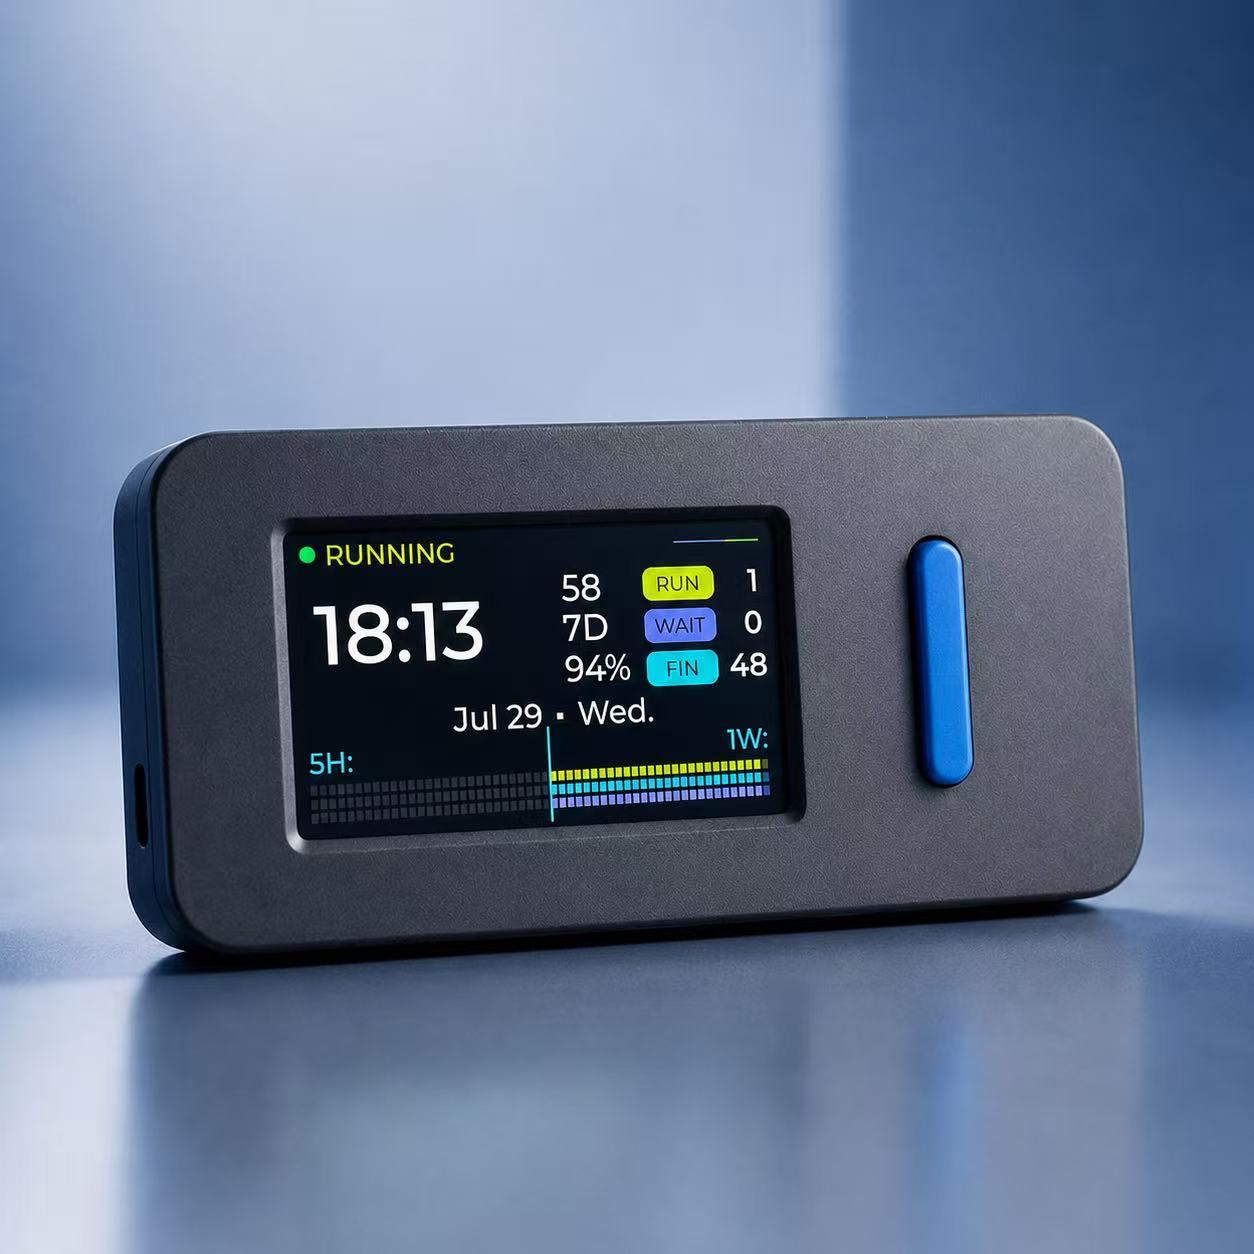
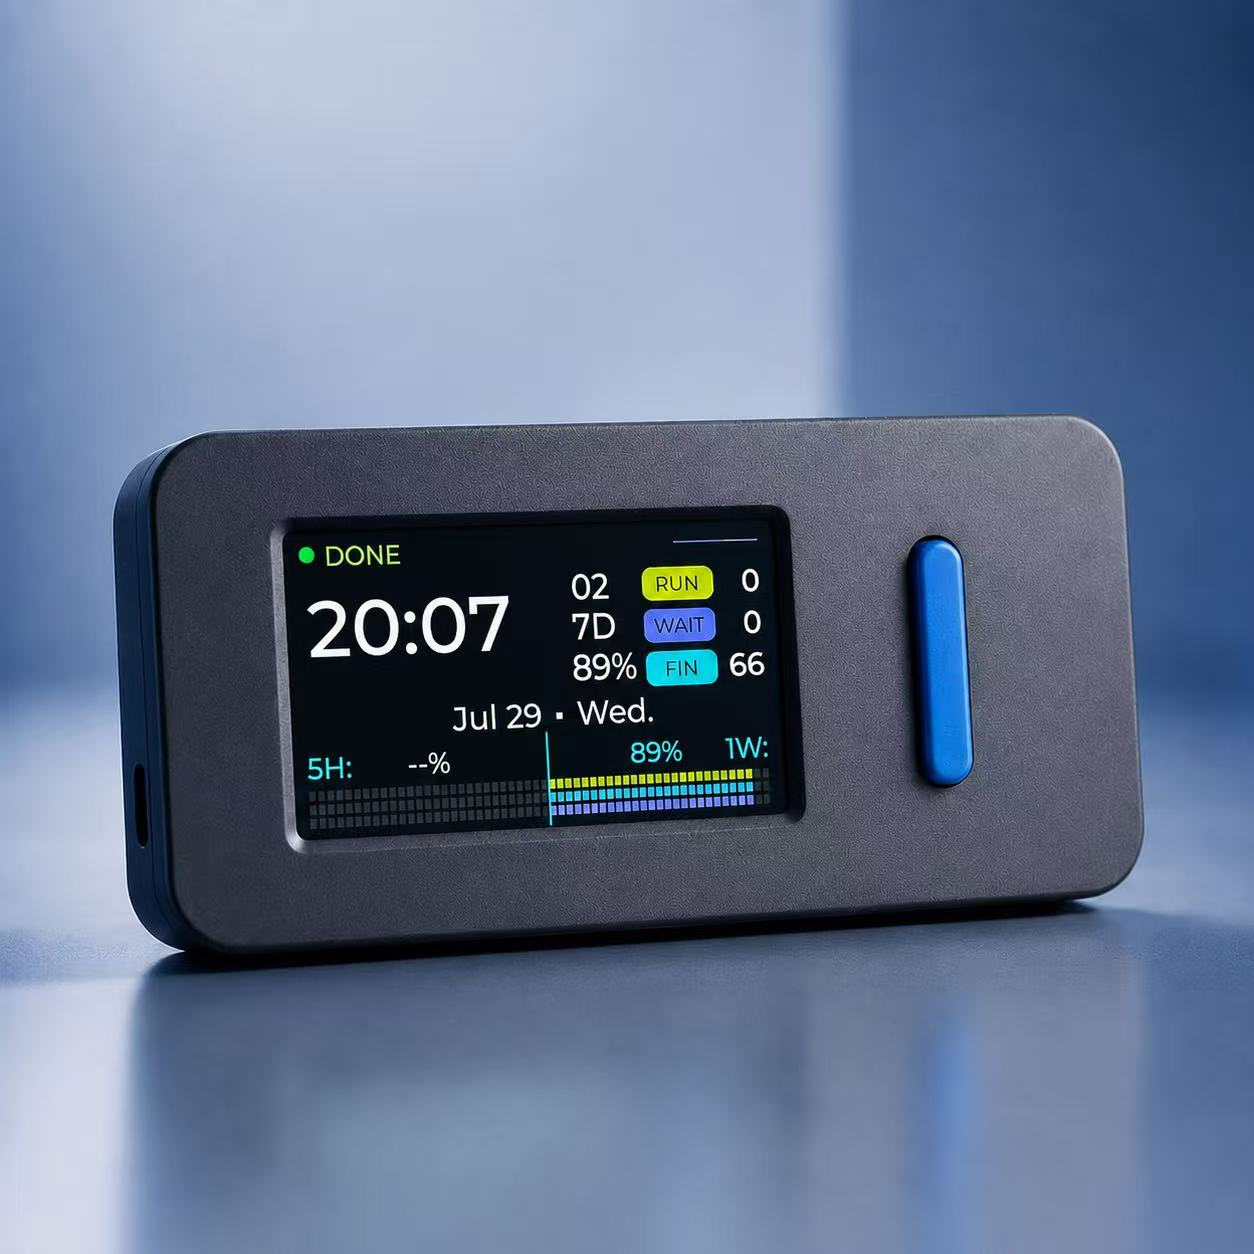
Add portrait quota cards and refresh renders

diff --git a/firmware/sticks3/src/main.c b/firmware/sticks3/src/main.c
@@ -187,6 +187,7 @@ static lv_obj_t *s_provider_label;
 static lv_obj_t *s_status_dot;
 static lv_obj_t *s_status_label;
 static lv_obj_t *s_funds_value_label;
+static lv_obj_t *s_five_hour_funds_value_label;
 static lv_obj_t *s_today_value_label;
 static lv_obj_t *s_token_value_label;
 static lv_obj_t *s_recording_overlay;
@@ -661,18 +662,18 @@ static lv_obj_t *make_fullscreen_overlay(lv_obj_t *parent)
 static lv_obj_t *make_metric_card(lv_obj_t *screen, int32_t y, const char *title,
                                   lv_color_t value_color, lv_obj_t **value_label)
 {
-    lv_obj_t *card = make_plain_obj(screen, LCD_H_RES - 16, 40,
+    lv_obj_t *card = make_plain_obj(screen, LCD_H_RES - 16, 32,
                                     lv_color_hex(0x101216), LV_OPA_COVER, 7);
     lv_obj_set_style_border_width(card, 1, 0);
     lv_obj_set_style_border_color(card, lv_color_hex(0x30343c), 0);
     lv_obj_align(card, LV_ALIGN_TOP_MID, 0, y);
 
-    lv_obj_t *title_label = make_label(card, title, &lv_font_montserrat_12,
-                                       lv_color_hex(0xa5aab3), 58, LV_TEXT_ALIGN_LEFT);
-    lv_obj_align(title_label, LV_ALIGN_LEFT_MID, 8, 0);
-    *value_label = make_label(card, "--", &lv_font_montserrat_16,
-                              value_color, 54, LV_TEXT_ALIGN_RIGHT);
-    lv_obj_align(*value_label, LV_ALIGN_RIGHT_MID, -7, 0);
+    lv_obj_t *title_label = make_label(card, title, &lv_font_montserrat_10,
+                                       lv_color_hex(0xa5aab3), 64, LV_TEXT_ALIGN_LEFT);
+    lv_obj_align(title_label, LV_ALIGN_LEFT_MID, 7, 0);
+    *value_label = make_label(card, "--", &lv_font_montserrat_14,
+                              value_color, 44, LV_TEXT_ALIGN_RIGHT);
+    lv_obj_align(*value_label, LV_ALIGN_RIGHT_MID, -6, 0);
     return card;
 }
 
@@ -1086,10 +1087,14 @@ static void create_portrait_ui(lv_obj_t *screen)
     lv_obj_align(s_status_label, LV_ALIGN_TOP_LEFT, 71, 59);
     lv_obj_align_to(s_status_dot, s_status_label, LV_ALIGN_OUT_LEFT_MID, -4, 0);
 
-    make_metric_card(screen, 91, "FUNDS:", lv_color_hex(0x8edb94), &s_funds_value_label);
-    make_metric_card(screen, 137, "TODAY:", lv_color_hex(0x8d94ee), &s_today_value_label);
-    make_metric_card(screen, 183, "TOKEN:", lv_color_hex(0xe7d86f), &s_token_value_label);
-    lv_obj_set_style_text_font(s_token_value_label, &lv_font_montserrat_14, 0);
+    make_metric_card(screen, 82, "1W FUNDS:", lv_color_hex(0x8edb94),
+                     &s_funds_value_label);
+    make_metric_card(screen, 119, "5H FUNDS:", lv_color_hex(0x41c7ff),
+                     &s_five_hour_funds_value_label);
+    make_metric_card(screen, 156, "TODAY:", lv_color_hex(0x8d94ee),
+                     &s_today_value_label);
+    make_metric_card(screen, 193, "TOKEN:", lv_color_hex(0xe7d86f),
+                     &s_token_value_label);
 
     s_recording_overlay = make_fullscreen_overlay(screen);
     lv_obj_add_flag(s_recording_overlay, LV_OBJ_FLAG_HIDDEN);
@@ -1302,10 +1307,10 @@ static void render_state(void)
     lv_obj_set_style_text_color(s_provider_label, lv_color_hex(0xf3f4f6), 0);
     lv_label_set_text(s_status_label, status_text_for(display_state->status));
     set_status_color(provider, status_key);
-    const bool quota_valid = display_state->quota_7d_valid || display_state->quota_5h_valid;
-    const int quota_remaining = display_state->quota_7d_valid
-        ? display_state->quota_7d : display_state->quota_5h;
-    set_percent_label(s_funds_value_label, quota_remaining, quota_valid);
+    set_percent_label(s_funds_value_label, display_state->quota_7d,
+                      display_state->quota_7d_valid);
+    set_percent_label(s_five_hour_funds_value_label, display_state->quota_5h,
+                      display_state->quota_5h_valid);
     set_percent_label(s_today_value_label, display_state->today_used_percent,
                       display_state->today_used_percent_valid);
     set_token_label(s_token_value_label, display_state->today_tokens,

diff --git a/README.md b/README.md
@@ -164,12 +164,12 @@ Wait for `Hash of data verified`.
 ./scripts/doctor.sh
 ```
 
-Aim for all required checks to pass. The StickS3 should show Wi-Fi, time, battery, Codex status, and `FUNDS / TODAY / TOKEN`.
+Aim for all required checks to pass. The StickS3 should show Wi-Fi, time, battery, Codex status, and `1W FUNDS / 5H FUNDS / TODAY / TOKEN`.
 
 11. 👤 Test both buttons:
 
 - Front blue, short press: open/focus Codex; approve when Codex is waiting for confirmation.
-- Front blue, double press: refresh `FUNDS / TODAY / TOKEN`.
+- Front blue, double press: refresh `1W FUNDS / 5H FUNDS / TODAY / TOKEN`.
 - Front blue, hold and release: record, transcribe, and enter into Codex without submitting.
 - Side, short press: approve all waiting Codex tasks across projects; if none are waiting, send the current input.
 - Side, double press: clear the current input text.
@@ -329,7 +329,7 @@ idf.py build
 
 - This is a cleaned prototype, not a packaged Mac app or DMG.
 - The firmware targets M5Stack StickS3 only.
-- `FUNDS` shows Codex quota remaining, `TODAY` shows the corresponding usage consumed, and `TOKEN` shows tokens accumulated during the current seven-day quota cycle. `TOKEN` restarts from zero whenever that quota cycle resets. The landscape `FIN` counter shows tasks completed during the current local day. It resets after local midnight and is restored after StickS3 power cycles or firmware flashes within the same day.
+- `1W FUNDS` and `5H FUNDS` show the remaining weekly and five-hour Codex quotas. `TODAY` shows the corresponding usage consumed, and `TOKEN` shows tokens accumulated during the current seven-day quota cycle. `TOKEN` restarts from zero whenever that quota cycle resets. The landscape `FIN` counter shows tasks completed during the current local day. It resets after local midnight and is restored after StickS3 power cycles or firmware flashes within the same day.
 - ASR reliability depends on microphone capture, uploaded PCM quality, provider availability, and configured model.
 
 ## Contributing & security

diff --git a/README.zh-CN.md b/README.zh-CN.md
@@ -161,12 +161,12 @@ ls /dev/cu.*
 ./scripts/doctor.sh
 ```
 
-尽量让必须项全部 PASS。然后看一眼 StickS3：顶部应显示 Wi-Fi、时间和电量，中间显示 Codex 状态，下面显示 `FUNDS / TODAY / TOKEN`。
+尽量让必须项全部 PASS。然后看一眼 StickS3：顶部应显示 Wi-Fi、时间和电量，中间显示 Codex 状态，下面显示 `1W FUNDS / 5H FUNDS / TODAY / TOKEN`。
 
 11. 👤 测试正面蓝键和侧键：
 
 - 正面蓝键短按：打开 Codex 或把 Codex 窗口带到前台；等待确认时发送允许。
-- 正面蓝键双击：刷新 `FUNDS / TODAY / TOKEN`。
+- 正面蓝键双击：刷新 `1W FUNDS / 5H FUNDS / TODAY / TOKEN`。
 - 正面蓝键长按：录音；松开后转写并填入 Codex，等待手动发送。
 - 侧键短按：跨项目批准全部等待中的 Codex 任务；没有待批准任务时发送当前输入。
 - 侧键双击：清空当前输入框中的文本。
@@ -326,7 +326,7 @@ idf.py build
 
 - 这是整理后的原型，不是打包好的 Mac app 或 DMG。
 - 固件只面向 M5Stack StickS3。
-- `FUNDS` 显示 Codex 当前额度剩余百分比，`TODAY` 显示对应的用量消耗百分比，`TOKEN` 显示当前七天额度周期内累计的 Token；额度周期重置时，`TOKEN` 会从 0 重新计算。横屏界面的 `FIN` 由 Mac bridge 持久保存，StickS3 断电或重新刷机后会自动恢复。
+- `1W FUNDS` 和 `5H FUNDS` 分别显示 Codex 一周额度与 5 小时额度的剩余百分比；`TODAY` 显示对应的用量消耗百分比，`TOKEN` 显示当前七天额度周期内累计的 Token；额度周期重置时，`TOKEN` 会从 0 重新计算。横屏界面的 `FIN` 由 Mac bridge 持久保存，StickS3 断电或重新刷机后会自动恢复。
 - ASR 可靠性取决于麦克风采集、上传 PCM 质量、provider 可达性和模型配置。
 
 ## 贡献与安全
